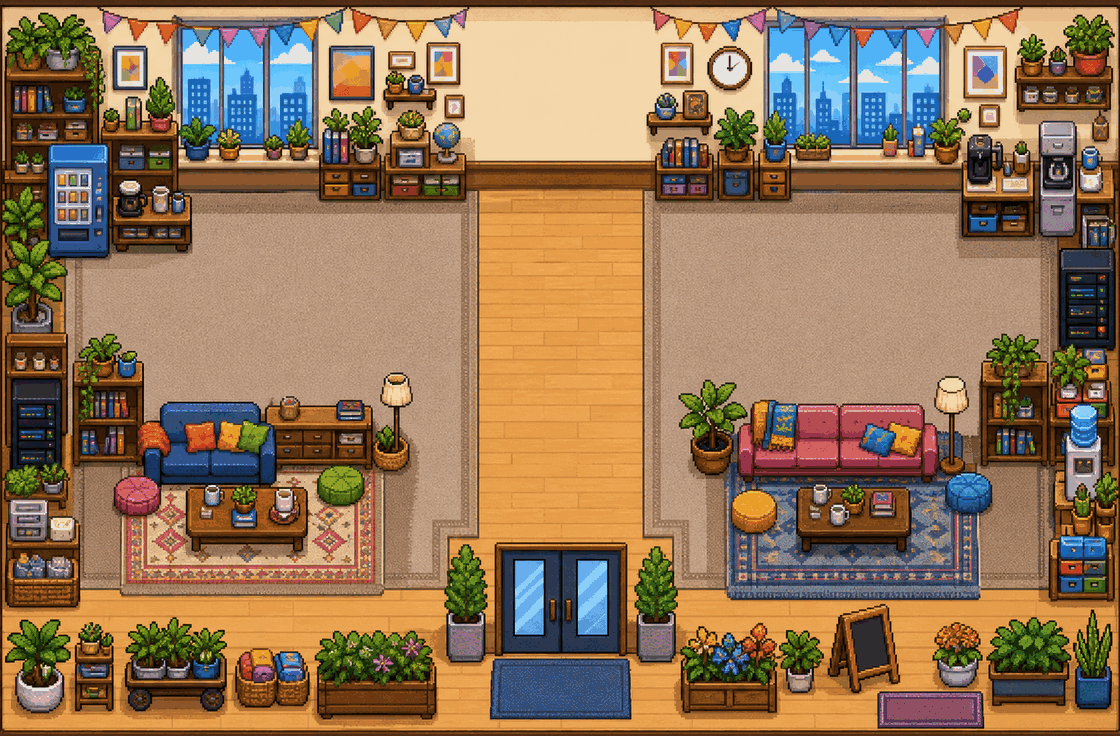
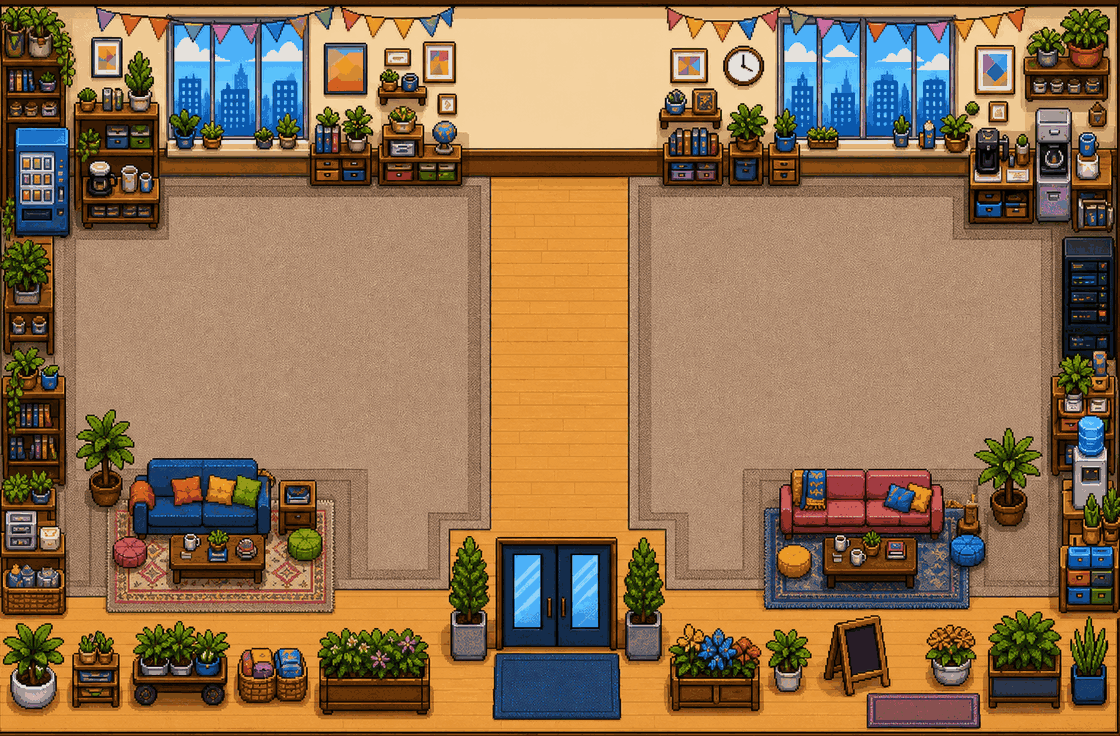
feat(pixel): 容量拡大bg(v2)と3x3机グリッド — 13体/18体対応

diff --git a/server/static/workspace/pixel/modules/scene-layout.js b/server/static/workspace/pixel/modules/scene-layout.js
@@ -58,10 +58,12 @@ function gridForZone(rect, count, options = {}) {
   const columnStart = (columnLeft + columnRight - (columns - 1) * stepX) / 2;
   for (let row = 0; row < rows; row += 1) {
     const y = Math.min(bottom, top + row * rowStep);
-    for (let column = 0; column < columns; column += 1) {
-      const x = columns === 1
+    const rowCount = Math.min(columns, count - row * columns);
+    const rowStart = columnStart + (columns - rowCount) * stepX / 2;
+    for (let column = 0; column < rowCount; column += 1) {
+      const x = rowCount === 1
         ? Math.round((columnLeft + columnRight) / 2)
-        : Math.round(columnStart + column * stepX);
+        : Math.round(rowStart + column * stepX);
       if (!options.avoidRect || !overlapsRect(x, y, options.avoidRect)) candidates.push([x, y]);
     }
   }
@@ -349,7 +351,7 @@ export function generateScene(animas, template) {
     });
     group.members.forEach((anima, memberIndex) => {
       const position = positions[memberIndex] || [rect[0] + 2, rect[1] + 3];
-      const inward = groups.length === 2 ? (index === 0 ? 1 : -1) : 0;
+      const inward = groups.length === 2 ? (index === 0 ? 2 : -2) : 0;
       desks[anima.id] = {
         tile: [position[0] + inward, position[1]],
         facing: "down",

diff --git a/server/static/workspace/pixel/modules/scene-render.js b/server/static/workspace/pixel/modules/scene-render.js
@@ -635,7 +635,7 @@ export class SceneRenderer {
       const zone = companyZones.at(-1);
       const minX = zone ? zone.rect[0] + 1 : 1;
       const maxX = zone ? zone.rect[2] - 1 : Math.floor(this.canvas.width / this.tile) - 2;
-      const minY = zone ? zone.rect[1] + 2 : 6;
+      const minY = zone ? zone.rect[3] - 4 : 6;
       const maxY = zone ? zone.rect[3] - 1 : Math.floor(this.canvas.height / this.tile) - 4;
       this.cat.targetX = (Math.max(minX, Math.min(maxX, tileX + dx)) + 0.5) * this.tile;
       this.cat.targetY = (Math.max(minY, Math.min(maxY, tileY + dy)) + 1) * this.tile;
